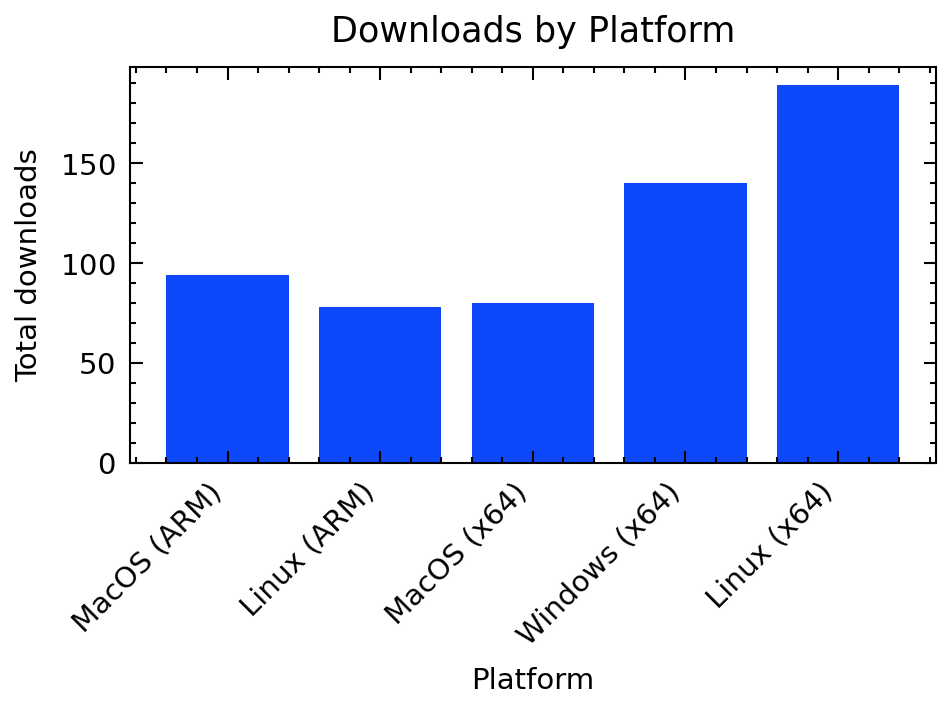
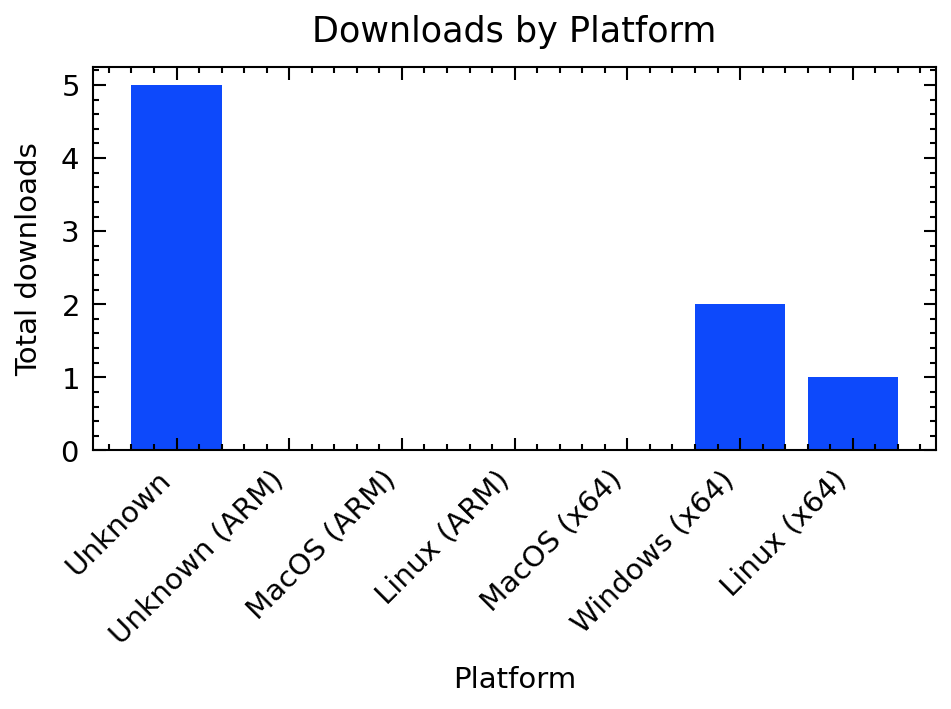
studio possibility

diff --git a/metrics/analyze.py b/metrics/analyze.py
@@ -1,5 +1,6 @@
 import argparse
 import json
+import re
 import anybadge
 import matplotlib.pyplot as plt
 import scienceplots
@@ -7,6 +8,7 @@ import scienceplots
 plt.style.use(["science", "no-latex", "nature", "high-vis"])
 
 parser = argparse.ArgumentParser("plotter")
+parser.add_argument("--name", help="repo name")
 parser.add_argument("--json", help="json file")
 
 args = parser.parse_args()
@@ -37,22 +39,37 @@ tag_downloads = list(downloads_per_tag.values())
 tags.reverse()
 tag_downloads.reverse()
 
-plot(tags, tag_downloads, "Releases", "Downloads by Release", "release.png")
+plot(
+    tags, tag_downloads, "Releases", "Downloads by Release", f"{args.name}_release.png"
+)
 
-def get_os(name: str):
-    os = "Unknown"
-    if "apple" in name:
-        os = "MacOS"
-    if "linux" in name:
-        os = "Linux"
-    if "windows" in name:
-        os = "Windows"
 
-    if "aarch64" in name:
-        os += " (ARM)"
-    if "x86_64" in name:
-        os += " (x64)"
-    return os
+_OS_PATTERNS = [
+    (r"apple|darwin|macos|osx|\.dmg$", "MacOS"),
+    (r"windows|\.exe$|\.msi$", "Windows"),
+    (r"linux|\.deb$|\.rpm$|appimage", "Linux"),
+]
+
+_ARCH_PATTERNS = [
+    (r"aarch64|arm64", "ARM64"),
+    (r"armv[67]|armhf|\barm\b", "ARM"),
+    (r"x86_64|amd64|x64", "x64"),
+    (r"i686|i386|\bx86\b", "x86"),
+]
+
+
+def get_os(name: str) -> str:
+    name = name.lower()
+    os_name = next(
+        (label for pattern, label in _OS_PATTERNS if re.search(pattern, name)),
+        "Unknown",
+    )
+    if os_name == "Unknown":
+        return os_name
+    arch = next(
+        (label for pattern, label in _ARCH_PATTERNS if re.search(pattern, name)), None
+    )
+    return f"{os_name} ({arch})" if arch else os_name
 
 
 # plot by OS
@@ -60,6 +77,8 @@ downloads_per_os = {}
 for release in data:
     for asset in release["assets"]:
         os_name = get_os(asset["name"])
+        if os_name == "Unknown":
+            continue
         downloads_per_os[os_name] = (
             downloads_per_os.get(os_name, 0) + asset["downloads"]
         )
@@ -67,14 +86,18 @@ for release in data:
 os = list(downloads_per_os.keys())
 downloads = list(downloads_per_os.values())
 
-plot(os, downloads, "Platform", "Downloads by Platform", "platform.png", "bar")
+plot(
+    os,
+    downloads,
+    "Platform",
+    "Downloads by Platform",
+    f"{args.name}_platform.png",
+    "bar",
+)
 
 badge = anybadge.Badge("Total downloads", sum(downloads))
-badge.write_badge("badge.svg", True)
+badge.write_badge(f"{args.name}_badge.svg", True)
 
-results = {
-    "versions": downloads_per_tag,
-    "platforms": downloads_per_os
-}
+results = {"versions": downloads_per_tag, "platforms": downloads_per_os}
 
 print(json.dumps(results, indent=2))

diff --git a/metrics/collect.py b/metrics/collect.py
@@ -1,12 +1,19 @@
+import argparse
+
 import requests
 import jmespath
 import json
 import os
 
-user = "fairagro"
-repo = "sciwin"
-base_url = f"https://api.github.com/repos/{user}/{repo}"
+parser = argparse.ArgumentParser(description="Collect release metrics from GitHub")
+parser.add_argument("--user", type=str, default="fairagro", help="GitHub username")
+parser.add_argument("--repo", type=str, required=True, help="GitHub repository name")
 
+args = parser.parse_args()
+user = args.user
+repo = args.repo
+
+base_url = f"https://api.github.com/repos/{user}/{repo}"
 releases_url = f"{base_url}/releases"
 
 client = requests.Session()
@@ -19,10 +26,14 @@ if token:
     )
 
 res = client.get(releases_url)
+if not res.ok:
+    raise SystemExit(
+        f"GitHub API error {res.status_code} for {releases_url}: {res.text}"
+    )
 content = res.json()
 
 releases = jmespath.search(
-    "[].{tag: tag_name, assets: assets[?ends_with(name, 'xz') || ends_with(name, 'zip')].{name: name, downloads: download_count}}",
+    "[].{tag: tag_name, assets: assets[?ends_with(name, 'xz') || ends_with(name, 'zip') || ends_with(name, 'exe')|| ends_with(name, 'msi')|| ends_with(name, 'dmg')|| ends_with(name, 'gz')|| ends_with(name, 'AppImage')|| ends_with(name, 'deb')].{name: name, downloads: download_count}}",
     content,
 )
 print(json.dumps(releases, indent=2))
